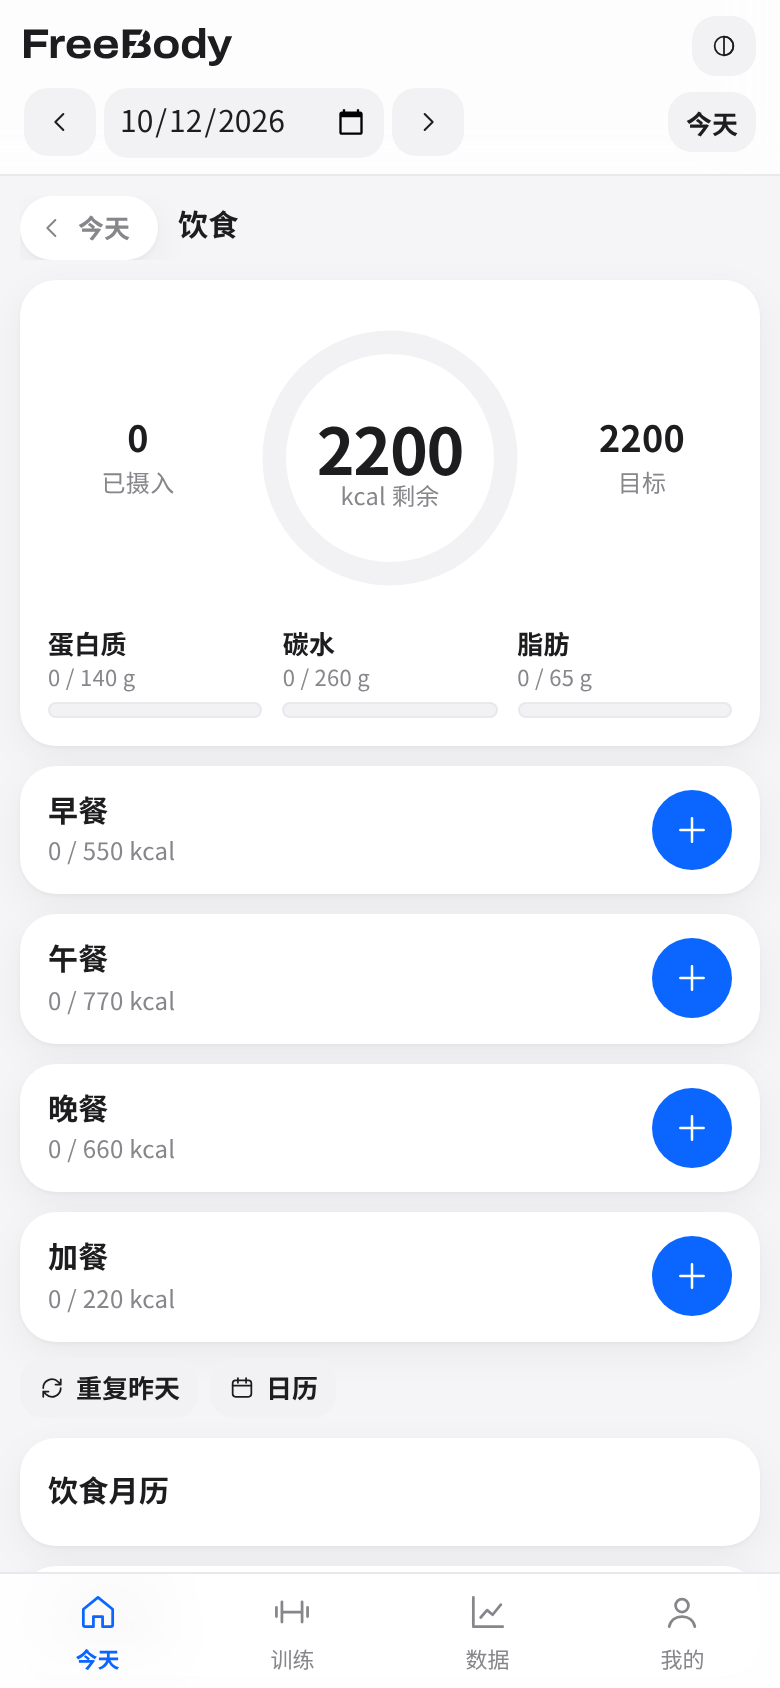
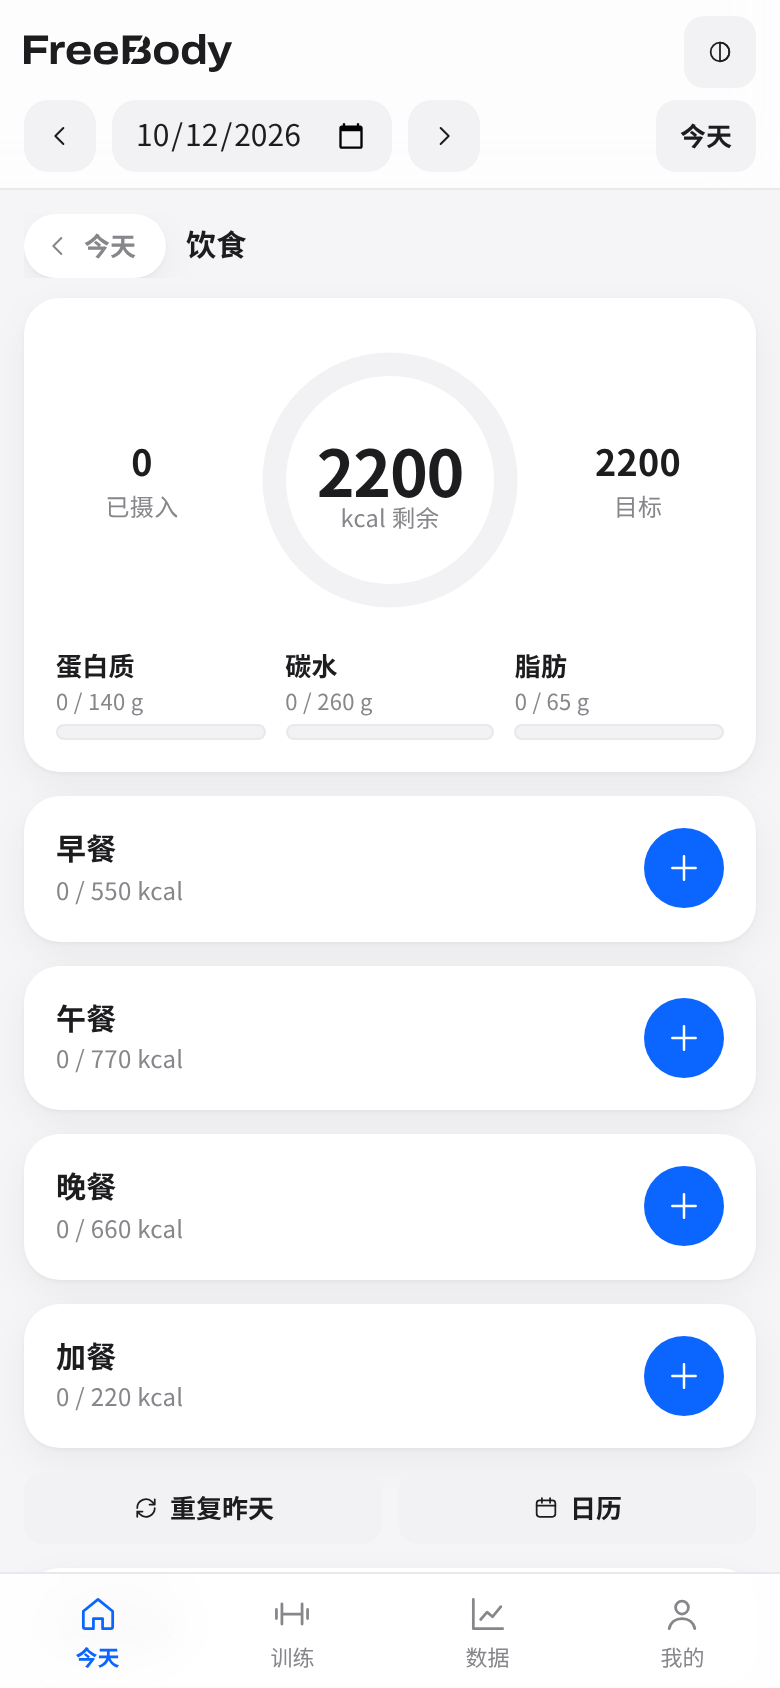
FreeBody v2.3.2: fix side-by-side field labels, settings layout, refresh screenshots

diff --git a/index.html b/index.html
@@ -340,6 +340,17 @@ textarea{padding:10px 12px}
 .danger-zone{margin-top:16px;padding-top:16px;border-top:1px solid var(--bd)}
 .danger-zone>button{width:100%}
 .grid2>div>button{width:100%}
+/* v2.3.2 多字段并排：标签单行、输入框严格同高 */
+.grid2>div>label:not(.chk){white-space:nowrap;overflow:hidden;text-overflow:ellipsis;line-height:18px;min-height:18px;margin-bottom:4px}
+input,select{line-height:20px}
+input::-webkit-datetime-edit{padding:0;line-height:20px}
+input::-webkit-date-and-time-value{min-height:20px}
+:where(input:not([type=checkbox]):not([type=radio]):not([type=range]):not([type=file]),select){height:var(--bh)}
+.dnav input{height:var(--bhs)}.pe-row input,.pe-row select,.pe-row2 input,.pe-row2 select{height:36px}.ck-t input:not([type=range]){height:var(--bhs)}.mini-sel{height:auto}
+/* 快捷入口：等宽网格 */
+.chips{display:grid;grid-template-columns:repeat(auto-fill,minmax(112px,1fr));gap:8px}
+@media(min-width:600px){.chips{grid-template-columns:repeat(auto-fill,minmax(140px,1fr))}}
+.chips>.chip{width:100%;min-height:var(--bhs);border-radius:10px;font-size:13px;padding:0 12px}
 .grid2>div:has(>input),.grid2>div:has(>select){display:flex;flex-direction:column;justify-content:flex-end}
 .card .btn-big{margin-top:12px}
 /* 间距刻度 8/12/16/24/32 */
@@ -363,7 +374,8 @@ main{padding:12px 12px 24px}
  section.on>details,section.on>.disc,section.on>.alert,section.on>.tools,section.on>.actions,#ovAlerts,#otAlert,#injAlert,#sessBox,#recBanner,#dfDay,#dataBox,#data>.card,#mealCards,#dietSum,#ovMain,#ovNut,#ovChecks,#ovTrend{grid-column:1/-1}
  #dataBox>.card{display:flex;flex-direction:column}
  section.on>.card.mut{grid-column:1/-1;background:none;box-shadow:none;padding:0 4px}
- #settings.on{grid-auto-flow:row dense}#settings>.card:nth-last-child(2){grid-column:1/-1}
+ /* 我的：平板为 常用 + 数据备份 一行，个人配置整行；桌面为 常用 整行，个人配置 + 数据备份 两等分 */
+ #settings.on{grid-auto-flow:row dense}#settings>div.card:nth-child(2){grid-column:1/-1}#settings>.card:nth-last-child(2){grid-column:span 4}
  #dietAdd.on{display:block;max-width:720px;margin:0 auto}#dietAdd.on>*{margin-bottom:12px}
  #nutri.on{display:block}
  /* 今天：主卡（准备度 + 今日训练）合并为一张；营养环横排；打卡三等分；近 7 天趋势 */
@@ -420,11 +432,11 @@ main{padding:12px 12px 24px}
  main{max-width:1248px;padding:24px 24px 32px}
  .subnav{margin-bottom:24px}
  section.on{--cols:12;--span:6}
- #injury.on,#settings.on,#hormone.on,#supp.on{--span:4}
+ #injury.on,#hormone.on,#supp.on{--span:4}
  #dietAdd.on{max-width:760px}
  .card,#overview .card{padding:24px}
  details.card:not([open]){padding-top:16px;padding-bottom:16px}
- #settings>.card:nth-last-child(2){grid-column:span 4}
+ #settings>div.card:first-child{grid-column:1/-1}#settings>div.card:nth-child(2),#settings>.card:nth-last-child(2){grid-column:span 6}
  section.on>.card.mut{padding:0 4px}
  .ck-t{padding:16px 24px}
  .ov-main>.card{padding:24px}
@@ -639,7 +651,7 @@ main{padding:12px 12px 24px}
 <!-- 数据总览 -->
 <section id="data">
  <div id="dataBox"></div>
- <div class="card"><h2>更多</h2><div class="row" id="dataMore"></div></div>
+ <div class="card"><h2>更多</h2><div class="chips" id="dataMore"></div></div>
 </section>
 
 <!-- 肌群恢复 -->
@@ -678,10 +690,10 @@ main{padding:12px 12px 24px}
   <div class="mut" style="margin-bottom:6px"><span id="swimNote"></span> 记录计时测试/比赛成绩，追踪状态变化（不预置任何成绩）。距离为 100m 的蛙泳记录也会自动计入。</div>
   <div id="pbBox"></div>
   <div class="grid2" style="margin-top:6px">
-   <div><label>成绩（mm:ss.xx）</label><input id="pbT" placeholder="如 1:30.00"></div>
+   <div><label>成绩</label><input id="pbT" placeholder="mm:ss.xx，如 1:30.00"></div>
    <div><label>类型</label><select id="pbTy"><option>计时测试</option><option>比赛</option><option>历史成绩（补录）</option></select></div>
    <div><label>日期</label><input type="date" id="pbD"></div>
-   <div><label>备注（泳池25/50m、出发方式等）</label><input id="pbN"></div>
+   <div><label>备注</label><input id="pbN" placeholder="泳池 25/50m、出发方式等"></div>
   </div>
   <div class="actions"><button id="pbAdd">记录成绩</button><span class="mut">图表越低越快</span></div>
   <div class="rng" data-rng="perf"></div><div class="chart" id="chPb"></div><div id="pbList"></div>
@@ -693,10 +705,10 @@ main{padding:12px 12px 24px}
   </div>
   <div id="rnBox" style="margin-top:8px"></div>
   <div class="grid2" style="margin-top:6px">
-   <div><label>当前成绩（m:ss.xx）</label><input id="rnT" placeholder="如 2:45"></div>
+   <div><label>当前成绩</label><input id="rnT" placeholder="m:ss.xx，如 2:45"></div>
    <div><label>类型</label><select id="rnTy"><option>计时测试</option><option>比赛</option><option>训练间歇</option></select></div>
    <div><label>日期</label><input type="date" id="rnD"></div>
-   <div><label>备注（场地、天气等）</label><input id="rnN"></div>
+   <div><label>备注</label><input id="rnN" placeholder="场地、天气等"></div>
   </div>
   <div class="actions"><button id="rnAdd">记录成绩</button><span class="mut">虚线=历史最佳/当前最佳，越低越快</span></div>
   <div class="chart" id="chRun"></div><div id="rnList"></div>
@@ -706,7 +718,7 @@ main{padding:12px 12px 24px}
   <div class="seg" id="ptSeg"></div><div id="ptBox"></div><div class="chart" id="chTest"></div>
   <div class="grid2" style="margin-top:6px">
    <div><label>项目</label><select id="ptEv"></select></div>
-   <div><label>成绩（数值，或 m:ss）</label><input id="ptV" inputmode="decimal"></div>
+   <div><label>成绩</label><input id="ptV" inputmode="decimal" placeholder="数值或 m:ss"></div>
    <div><label>日期</label><input type="date" id="ptD"></div>
    <div><label>备注</label><input id="ptN"></div>
   </div>
@@ -844,14 +856,14 @@ main{padding:12px 12px 24px}
 
 <!-- 设置 -->
 <section id="settings" data-lay="dense">
- <div class="card"><h2>常用</h2><div class="row"><button class="chip" data-go="supp">补剂清单</button><button class="chip" data-go="injury">伤病与限制</button><button class="chip" data-go="perf">运动表现</button><button class="chip" data-go="nutri">营养分析</button></div></div>
+ <div class="card"><h2>常用</h2><div class="chips"><button class="chip" data-go="supp">补剂清单</button><button class="chip" data-go="injury">伤病与限制</button><button class="chip" data-go="perf">运动表现</button><button class="chip" data-go="nutri">营养分析</button></div></div>
  <div class="card"><h2>个人配置</h2>
   <div class="grid2 w3">
-   <div><label>昵称（可选）</label><input id="pfName"></div>
-   <div><label>身高 cm（用于 BMI）</label><input id="pfH" type="number"></div>
-   <div><label>训练伤处标记名称</label><input id="pfFlag" placeholder="伤处不适"></div>
+   <div><label>昵称</label><input id="pfName" placeholder="可选"></div>
+   <div><label>身高 cm</label><input id="pfH" type="number" placeholder="用于 BMI"></div>
+   <div><label>伤处标记</label><input id="pfFlag" placeholder="伤处不适" title="训练记录中「伤处不适」标记的显示名称"></div>
   </div>
-  <div class="actions"><button id="pfSave">保存</button></div>
+  <div class="actions"><button id="pfSave">保存</button><span class="mut">身高用于计算 BMI；伤处标记是训练记录中「伤处不适」的显示名。</span></div>
  </div>
  <details class="card"><summary><b>示例配置（可选）</b></summary><p class="mut">合并示例的伤病、受限动作、康复清单配置，不含记录数据。</p><ul class="list" id="exList2"></ul><div class="actions"><button class="ghost" id="exFileBtn">从文件加载配置</button><input type="file" id="exFile" accept=".json,application/json" hidden></div><p class="mut" style="font-size:12px">可加载与 examples/ 同格式的本地 JSON（如个人配置），只合并配置与清单。</p></details>
  <details class="card"><summary><b>食物库</b></summary><p class="mut" id="cfInfo"></p>

diff --git a/src/index.template.html b/src/index.template.html
@@ -198,7 +198,7 @@
 <!-- 数据总览 -->
 <section id="data">
  <div id="dataBox"></div>
- <div class="card"><h2>更多</h2><div class="row" id="dataMore"></div></div>
+ <div class="card"><h2>更多</h2><div class="chips" id="dataMore"></div></div>
 </section>
 
 <!-- 肌群恢复 -->
@@ -237,10 +237,10 @@
   <div class="mut" style="margin-bottom:6px"><span id="swimNote"></span> 记录计时测试/比赛成绩，追踪状态变化（不预置任何成绩）。距离为 100m 的蛙泳记录也会自动计入。</div>
   <div id="pbBox"></div>
   <div class="grid2" style="margin-top:6px">
-   <div><label>成绩（mm:ss.xx）</label><input id="pbT" placeholder="如 1:30.00"></div>
+   <div><label>成绩</label><input id="pbT" placeholder="mm:ss.xx，如 1:30.00"></div>
    <div><label>类型</label><select id="pbTy"><option>计时测试</option><option>比赛</option><option>历史成绩（补录）</option></select></div>
    <div><label>日期</label><input type="date" id="pbD"></div>
-   <div><label>备注（泳池25/50m、出发方式等）</label><input id="pbN"></div>
+   <div><label>备注</label><input id="pbN" placeholder="泳池 25/50m、出发方式等"></div>
   </div>
   <div class="actions"><button id="pbAdd">记录成绩</button><span class="mut">图表越低越快</span></div>
   <div class="rng" data-rng="perf"></div><div class="chart" id="chPb"></div><div id="pbList"></div>
@@ -252,10 +252,10 @@
   </div>
   <div id="rnBox" style="margin-top:8px"></div>
   <div class="grid2" style="margin-top:6px">
-   <div><label>当前成绩（m:ss.xx）</label><input id="rnT" placeholder="如 2:45"></div>
+   <div><label>当前成绩</label><input id="rnT" placeholder="m:ss.xx，如 2:45"></div>
    <div><label>类型</label><select id="rnTy"><option>计时测试</option><option>比赛</option><option>训练间歇</option></select></div>
    <div><label>日期</label><input type="date" id="rnD"></div>
-   <div><label>备注（场地、天气等）</label><input id="rnN"></div>
+   <div><label>备注</label><input id="rnN" placeholder="场地、天气等"></div>
   </div>
   <div class="actions"><button id="rnAdd">记录成绩</button><span class="mut">虚线=历史最佳/当前最佳，越低越快</span></div>
   <div class="chart" id="chRun"></div><div id="rnList"></div>
@@ -265,7 +265,7 @@
   <div class="seg" id="ptSeg"></div><div id="ptBox"></div><div class="chart" id="chTest"></div>
   <div class="grid2" style="margin-top:6px">
    <div><label>项目</label><select id="ptEv"></select></div>
-   <div><label>成绩（数值，或 m:ss）</label><input id="ptV" inputmode="decimal"></div>
+   <div><label>成绩</label><input id="ptV" inputmode="decimal" placeholder="数值或 m:ss"></div>
    <div><label>日期</label><input type="date" id="ptD"></div>
    <div><label>备注</label><input id="ptN"></div>
   </div>
@@ -403,14 +403,14 @@
 
 <!-- 设置 -->
 <section id="settings" data-lay="dense">
- <div class="card"><h2>常用</h2><div class="row"><button class="chip" data-go="supp">补剂清单</button><button class="chip" data-go="injury">伤病与限制</button><button class="chip" data-go="perf">运动表现</button><button class="chip" data-go="nutri">营养分析</button></div></div>
+ <div class="card"><h2>常用</h2><div class="chips"><button class="chip" data-go="supp">补剂清单</button><button class="chip" data-go="injury">伤病与限制</button><button class="chip" data-go="perf">运动表现</button><button class="chip" data-go="nutri">营养分析</button></div></div>
  <div class="card"><h2>个人配置</h2>
   <div class="grid2 w3">
-   <div><label>昵称（可选）</label><input id="pfName"></div>
-   <div><label>身高 cm（用于 BMI）</label><input id="pfH" type="number"></div>
-   <div><label>训练伤处标记名称</label><input id="pfFlag" placeholder="伤处不适"></div>
+   <div><label>昵称</label><input id="pfName" placeholder="可选"></div>
+   <div><label>身高 cm</label><input id="pfH" type="number" placeholder="用于 BMI"></div>
+   <div><label>伤处标记</label><input id="pfFlag" placeholder="伤处不适" title="训练记录中「伤处不适」标记的显示名称"></div>
   </div>
-  <div class="actions"><button id="pfSave">保存</button></div>
+  <div class="actions"><button id="pfSave">保存</button><span class="mut">身高用于计算 BMI；伤处标记是训练记录中「伤处不适」的显示名。</span></div>
  </div>
  <details class="card"><summary><b>示例配置（可选）</b></summary><p class="mut">合并示例的伤病、受限动作、康复清单配置，不含记录数据。</p><ul class="list" id="exList2"></ul><div class="actions"><button class="ghost" id="exFileBtn">从文件加载配置</button><input type="file" id="exFile" accept=".json,application/json" hidden></div><p class="mut" style="font-size:12px">可加载与 examples/ 同格式的本地 JSON（如个人配置），只合并配置与清单。</p></details>
  <details class="card"><summary><b>食物库</b></summary><p class="mut" id="cfInfo"></p>

diff --git a/src/styles.css b/src/styles.css
@@ -321,6 +321,17 @@ textarea{padding:10px 12px}
 .danger-zone{margin-top:16px;padding-top:16px;border-top:1px solid var(--bd)}
 .danger-zone>button{width:100%}
 .grid2>div>button{width:100%}
+/* v2.3.2 多字段并排：标签单行、输入框严格同高 */
+.grid2>div>label:not(.chk){white-space:nowrap;overflow:hidden;text-overflow:ellipsis;line-height:18px;min-height:18px;margin-bottom:4px}
+input,select{line-height:20px}
+input::-webkit-datetime-edit{padding:0;line-height:20px}
+input::-webkit-date-and-time-value{min-height:20px}
+:where(input:not([type=checkbox]):not([type=radio]):not([type=range]):not([type=file]),select){height:var(--bh)}
+.dnav input{height:var(--bhs)}.pe-row input,.pe-row select,.pe-row2 input,.pe-row2 select{height:36px}.ck-t input:not([type=range]){height:var(--bhs)}.mini-sel{height:auto}
+/* 快捷入口：等宽网格 */
+.chips{display:grid;grid-template-columns:repeat(auto-fill,minmax(112px,1fr));gap:8px}
+@media(min-width:600px){.chips{grid-template-columns:repeat(auto-fill,minmax(140px,1fr))}}
+.chips>.chip{width:100%;min-height:var(--bhs);border-radius:10px;font-size:13px;padding:0 12px}
 .grid2>div:has(>input),.grid2>div:has(>select){display:flex;flex-direction:column;justify-content:flex-end}
 .card .btn-big{margin-top:12px}
 /* 间距刻度 8/12/16/24/32 */
@@ -344,7 +355,8 @@ main{padding:12px 12px 24px}
  section.on>details,section.on>.disc,section.on>.alert,section.on>.tools,section.on>.actions,#ovAlerts,#otAlert,#injAlert,#sessBox,#recBanner,#dfDay,#dataBox,#data>.card,#mealCards,#dietSum,#ovMain,#ovNut,#ovChecks,#ovTrend{grid-column:1/-1}
  #dataBox>.card{display:flex;flex-direction:column}
  section.on>.card.mut{grid-column:1/-1;background:none;box-shadow:none;padding:0 4px}
- #settings.on{grid-auto-flow:row dense}#settings>.card:nth-last-child(2){grid-column:1/-1}
+ /* 我的：平板为 常用 + 数据备份 一行，个人配置整行；桌面为 常用 整行，个人配置 + 数据备份 两等分 */
+ #settings.on{grid-auto-flow:row dense}#settings>div.card:nth-child(2){grid-column:1/-1}#settings>.card:nth-last-child(2){grid-column:span 4}
  #dietAdd.on{display:block;max-width:720px;margin:0 auto}#dietAdd.on>*{margin-bottom:12px}
  #nutri.on{display:block}
  /* 今天：主卡（准备度 + 今日训练）合并为一张；营养环横排；打卡三等分；近 7 天趋势 */
@@ -401,11 +413,11 @@ main{padding:12px 12px 24px}
  main{max-width:1248px;padding:24px 24px 32px}
  .subnav{margin-bottom:24px}
  section.on{--cols:12;--span:6}
- #injury.on,#settings.on,#hormone.on,#supp.on{--span:4}
+ #injury.on,#hormone.on,#supp.on{--span:4}
  #dietAdd.on{max-width:760px}
  .card,#overview .card{padding:24px}
  details.card:not([open]){padding-top:16px;padding-bottom:16px}
- #settings>.card:nth-last-child(2){grid-column:span 4}
+ #settings>div.card:first-child{grid-column:1/-1}#settings>div.card:nth-child(2),#settings>.card:nth-last-child(2){grid-column:span 6}
  section.on>.card.mut{padding:0 4px}
  .ck-t{padding:16px 24px}
  .ov-main>.card{padding:24px}

diff --git a/sw.js b/sw.js
@@ -1,7 +1,7 @@
 /* FreeBody service worker（由 scripts/build.js 生成 sw.js，请勿直接编辑 sw.js）
  * 策略：缓存优先；安装时预缓存应用外壳；新版本安装后等待页面确认（"有新版本，点此刷新"）再接管。 */
 'use strict';
-var VERSION = '2.3.1-9e77f73fe2';
+var VERSION = '2.3.2-b87e88ba72';
 var CACHE = 'freebody-' + VERSION;
 var ASSETS = ["./","./index.html","./manifest.webmanifest","./icons/icon-192.png","./icons/icon-512.png","./icons/icon-maskable-192.png","./icons/icon-maskable-512.png","./icons/apple-touch-icon.png"];
 self.addEventListener('install', function (e) {

diff --git a/README.md b/README.md
@@ -8,9 +8,15 @@
 
 ## 截图
 
+手机（390 宽）：
+
 <img src="docs/screenshots/home.png" alt="FreeBody 今天页（空模板）" width="240"> <img src="docs/screenshots/diet.png" alt="饮食日记（空模板）" width="240"> <img src="docs/screenshots/diet-food.png" alt="食物详情（内置库示例，深色）" width="240"> <img src="docs/screenshots/muscle-map.png" alt="训练页肌群恢复热图（示例训练数据）" width="240">
 
-<sub>空模板截图，不含任何个人数据；肌群热图使用临时注入的示例训练数据，截图后即丢弃。其他截图可放入 `docs/screenshots/`（请勿包含真实个人数据）。</sub>
+桌面（1280 宽，深色）与平板（768 宽）：
+
+<img src="docs/screenshots/desktop-1280.png" alt="桌面布局：左侧导航、主卡 + 营养环 + 打卡 + 近 7 天趋势（示例数据，深色）" width="640"> <img src="docs/screenshots/tablet-768.png" alt="平板竖屏布局（示例数据）" width="300">
+
+<sub>截图由当前版本生成（v2.3.2）。今天页、饮食日记、食物详情为空模板；肌群热图、桌面与平板截图使用临时注入的通用示例数据，截图后即丢弃，不含任何个人数据。其他截图可放入 `docs/screenshots/`（请勿包含真实个人数据）。</sub>
 
 ## 设计原则（v2.0）
 

diff --git a/CHANGELOG.md b/CHANGELOG.md
@@ -4,6 +4,17 @@
 
 ## [未发布]
 
+## [2.3.2] - 2026-10-12
+
+### 修复
+- 「我的 → 个人配置」：三个字段并排时「身高 cm（用于 BMI）」标签折行，导致标签与输入框上下错位、卡片高度不一。标签缩短为「昵称 / 身高 cm / 伤处标记」，说明移入 placeholder 与卡片底部帮助文字。
+- 全站多字段并排行：标签强制单行（超长省略），标签与输入框间距 4px；输入框、下拉框、日期框统一为 44px 固定高度（此前日期框高 2–3px，导致同一行底边不齐）。运动表现页的「成绩 / 备注」长标签同样缩短，格式说明移入 placeholder。
+- 「我的」页布局：平板为「常用 + 数据备份」一行、「个人配置」整行；桌面为「常用」整行、「个人配置 + 数据备份」两等分。同一行卡片等高、内边距一致、标题基线对齐。
+- 「常用」与数据页「更多」的快捷入口改为等宽网格按钮（36px）。
+
+### 文档
+- 重新生成 `docs/screenshots/` 下全部截图（当前版本，空模板或一次性示例数据），新增桌面 1280（`desktop-1280.png`）与平板 768（`tablet-768.png`）截图，更新 README 截图区。
+
 ## [2.3.1] - 2026-10-12
 
 按钮系统与平板 / 桌面布局重做。数据结构不变。
